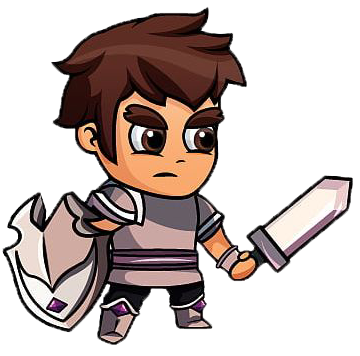
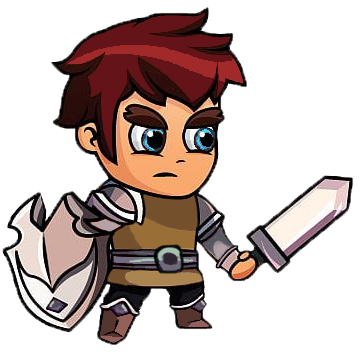
Modif graphisme

diff --git a/Jeu/src/main/java/manager/LevelCreator.java b/Jeu/src/main/java/manager/LevelCreator.java
@@ -218,6 +218,7 @@ public class LevelCreator {
                             break;
                         case "Door" :
                             String nextLevel = (String) gameObject.get("nextLevel");
+                            //if (nextLevel=="maze")generateMaze(levels);
                             JSONObject nextPos = (JSONObject) gameObject.get("nextPosition");
                             int newX = (int) ((long) nextPos.get("newX"));
                             int newY = (int) ((long) nextPos.get("newY"));
@@ -264,6 +265,71 @@ public class LevelCreator {
         }
         return int2DConvert;
     }
+
+
+
+    //https://medium.com/pragmatic-programmers/the-growing-tree-algorithm-844d67e115b8
+
+    // void generateMaze(JSONArray levels){
+
+    //     //initialisation de la liste vide contenant toutes les pos possible pour les murs(2 en moins sur y pour le hud)
+    //     int[][] levelInitMapArray = new int[13][27];
+
+    //     int[][] active =  new int[13][27];
+    //     active[5][9]=1;
+    //     //création du labyrinthe(1 case sur 2 est visitable)
+    //     while (activeNotEmpty(active)){
+    //         int[][] cell = selectCellFromActive(active);//surement la dernire lié puis on remonte en arriere
+    //         if (UnvisitedNeighborg(cell)){//regarde autour de la celule si il ya des voisins dispo
+    //             int[][] newCell = chooseRandomUnvisitedNeighborg(cell) ;//choisi un voisin de maniere aleatoire(uniforme)
+    //             addNeigborgToActive(active,newCell);//
+    //             createlink(levelInitMapArray,cell,newCell);//ajoute en case accessible la case entre les 2 cells
+    //         }
+    //         else{//impasse
+    //             unactivateCell(cell);//on enleve la case de la liste des cases actives
+    //             addCellToMap(cell);//on ajoute la case à la map
+    //         }
+    //     }
+    //     //Toutes les cases qui ne sont pas accessibles sont donc des murs 
+
+    //     //on recup le labyrinthe qui est stocké en dernier dans la liste de level
+    //     JSONObject level = (JSONObject) levels.get(levels.size());
+
+    //     //création d'un gameObject mur
+    //     GameObject wall= ;
+    //     //ajout de gameObject pour chaque pos de mur
+    //     for (int i = 0 ; i < 13; i++){
+    //         for (int j = 0 ; i < 27; i++){
+    //             if (needWall(levelInitMapArray,i,j)){
+    //                 addGameObjectToJsonLevel(level,wall);
+    //             }
+    //         }
+    //     }
+    // }
+
+
+
+
+
+
+
+
+
+
+
+
+
+
+
+
+
+
+
+
+
+
+
+
     /**
      * ( W I P )
      * (les noms des mobs ne sont pas encore définis, "Ghost" est prit a titre d'exemple )

diff --git a/Jeu/src/main/java/manager/Utilities.java b/Jeu/src/main/java/manager/Utilities.java
@@ -85,6 +85,8 @@ public class Utilities {
 
     public static HashMap<State,Sprite> getSpritesFromJSON(String model) throws Exception {
 
+        String tst = model;
+
         HashMap<State,Sprite> sprites = new HashMap<State,Sprite>();
         model = "src/main/ressources/levels/graphics/"+model+".json";
 
@@ -107,17 +109,34 @@ public class Utilities {
 
                 Sprite s;
 
+                
+
 
                 if (state == State.FIGHT) {
-                    s = Sprite.createBigSprite(pathStr, 4);
+               
+                    s = Sprite.createBigSprite(pathStr, 2);
                 } 
 
                 else {
+                    System.out.println("COUUUUUUUUUUUUUUUUUUUUUUUUUUUUUUUUUUUUUUUUUUUUUUUUUUU ::::::: "+model);
+            
+
                     if (state == State.DEFAULT) {
-                        s = Sprite.createSprite2(pathStr, 4);
+                        
+                        if (tst == "mob") {
+                            System.out.println("COUUUUUUUUUUUUUUUUUUUUUUUUUUUUUUUUUUUUUUUUUUUUUUUUUUU");
+                            s = Sprite.createBigSprite(pathStr, 4, 120);
+                        }
+                        else
+                        s = Sprite.createBigSprite(pathStr, 4);
                     } 
                     else {
-                    s = Sprite.createSprite(pathStr, 4);
+                        if (tst == "mob") {
+                            System.out.println("COUUUUUUUUUUUUUUUUUUUUUUUUUUUUUUUUUUUUUUUUUUUUUUUUUUU");
+                            s = Sprite.createBigSprite(pathStr, 4, 120);
+                        }
+                        else
+                        s = Sprite.createSprite(pathStr, 4);
                     }
                 }
 

diff --git a/Jeu/src/main/java/prefab/rendering/Sprite.java b/Jeu/src/main/java/prefab/rendering/Sprite.java
@@ -19,6 +19,9 @@ public final class Sprite {
     private Sprite(BufferedImage spriteSheet, int animationSpeed, boolean mirorV, boolean mirorH, int lengthX) {
         this.mirorV = mirorV;
         this.mirorH = mirorH;
+        System.out.println("spriteSheet.getWidth()"+spriteSheet.getWidth());
+        System.out.println("lengthX"+lengthX);
+
         numberOfImages = (int) (spriteSheet.getWidth() / lengthX);
         this.animationSpeed  = animationSpeed;
         images = new BufferedImage[numberOfImages];
@@ -74,13 +77,10 @@ public final class Sprite {
         return createBigSprite(pathStr, animationSpeed, 60);
     }
 
-    public static Sprite createSprite2(String pathStr, int animationSpeed) throws Exception {
-        return createBigSprite(pathStr, animationSpeed);
-    }
+
     public BufferedImage getImage(int index) {
         return images[index];
     }
-
     public int getAnimationSpeed() {
         return animationSpeed;
     }

diff --git a/Jeu/src/main/java/manager/WorldManager.java b/Jeu/src/main/java/manager/WorldManager.java
@@ -112,19 +112,21 @@ public class WorldManager implements WorldPainter {
         gameLevels = levelCreator.getLevels();
         currentLevel = gameLevels.get("level_1");
 
+        System.out.println("MMMMMMMMMMMMMMMMMMMMMMMMMMMMMMMMMMMMMMMMMMMMMMMMMMMMMMMMMMMMMMMMM");
+
         HashMap<State,Sprite> sM =  Utilities.getSpritesFromJSON("mob");
 
         Animation aM = CharacterAnimation.createForPNJ(sM);
 
         Position p1M = Position.create(10, 10);
 
-        Ghoul mob = new Ghoul(p1M, aM, 1, 1, "Jean le Destructeur");
+        Ghoul mob = new Ghoul(p1M, aM, 2, 1, "Jean le Destructeur");
 
         Position p2M = Position.create(12, 10);
         Animation aM2 = CharacterAnimation.createForPNJ(sM);
 
 
-        Ghoul mob2 = new Ghoul(p2M, aM2, 1, 1, "sssss");
+        Ghoul mob2 = new Ghoul(p2M, aM2, 2, 1, "sssss");
 
         mob.startAnimation();
         mob2.startAnimation();

diff --git a/Jeu/src/main/java/prefab/entity/Character.java b/Jeu/src/main/java/prefab/entity/Character.java
@@ -69,7 +69,7 @@ public abstract class Character extends GameObject {
      * @throws CloneNotSupportedException
       */
     Character(Position position, Animation animation, int horizontalHitBox, int verticalHitBox, String name) throws CloneNotSupportedException {
-        super(position, animation, horizontalHitBox, verticalHitBox, State.DEFAULT);
+        super(position, animation, horizontalHitBox, verticalHitBox, State.IDLE_DOWN);
         this.name = name;
         this.attacks = new ArrayList<Attack>();
         this.spells = new ArrayList<Spell>();

diff --git a/Jeu/src/main/java/prefab/rendering/Animation.java b/Jeu/src/main/java/prefab/rendering/Animation.java
@@ -23,7 +23,7 @@ public class Animation implements Cloneable, Comparable<Animation>{
      * que la méthode nextFrame() est apellé
      * permet de changer de frame selon la vitesse de l'animation
      */
-    int cptNrbSpriteCall;
+    int cptNrbSpriteCall = 1;
     /** position du personnage */
     Position position;
 

diff --git a/Jeu/src/main/java/prefab/rendering/CharacterAnimation.java b/Jeu/src/main/java/prefab/rendering/CharacterAnimation.java
@@ -82,7 +82,7 @@ public class CharacterAnimation extends Animation {
             } else {
                 updateMoveShift();
             }
-        }
+        }   
         // met à jour l'image du Sprite
         super.nextFrame();
 
